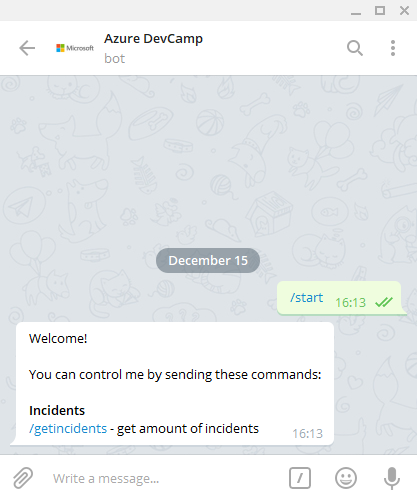
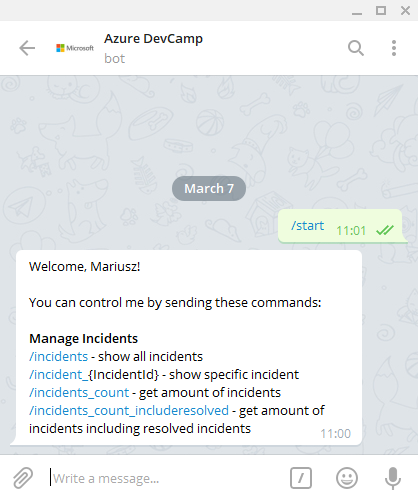
Replaced some images

diff --git a/HOL/dotnet/11-IoT/README.md b/HOL/dotnet/11-IoT/README.md
@@ -296,7 +296,7 @@ This example shows how to work with data requests, how to link the device to a d
 ---
 ## Exercise 3: Remote control using the Telegram Bot API<a name="ex3"></a>
 
-In this lesson you will create a Telegram bot.
+In this lesson you will create a Telegram bot which runs on our Arduino device. The bot allows you to control the device remotely.
 
 1. Install the Telegram app for your device. Got to https://telegram.org/apps and select the preferred download link. To create an account, you need a valid phone number.
 
@@ -345,7 +345,7 @@ In the following steps you will add the Universal Telegram Bot Library to your A
 	const char serverUrl[] = "incidentapi[YOUR_RG_NAME].azurewebsites.net"; // address for request, without http://
 
 	const char requestIncidentsUri[] = "/incidents";
-	const char requestIncidentUri[] = "/incidents/"; // /incidents/{IncidentId}
+	const char requestIncidentUri[] = "/incidents/"; // usage: /incidents/{IncidentId}
 	const char requestIncidentsCountUri[] = "/incidents/count";
 	const char requestIncidentsCountIncludeResolved[] = "/incidents/count/includeresolved";
 
@@ -355,16 +355,15 @@ In the following steps you will add the Universal Telegram Bot Library to your A
 	WiFiClientSecure clientSecure;
 	UniversalTelegramBot bot(BOT_TOKEN, clientSecure);
 
-	int interval = 1000; // mean time between scan messages
-	long lastMillis; // last time messages' scan has been done
-
 	const int maxMessageLength = 1300;  // maximum length of a message defined in UniversalTelegramBot.h
+	const int interval = 1000; // mean time between scan messages
+	long lastMillis; // last time messages' scan has been done
 
 	void setup() {
 	  Serial.begin(115200); // sets up serial data transmission for status information
-	  
+
 	  pinMode(LED_PIN, OUTPUT);
-	  
+
 	  connectWifi(ssid, password);
 	}
 
@@ -387,17 +386,17 @@ In the following steps you will add the Universal Telegram Bot Library to your A
 
 	void connectWifi(const char ssid[], const char password[]) {
 	  Serial.print("Connecting to Wi-Fi");
-	  
+
 	  WiFi.hostname("NodeMCU@DevCamp");
 	  WiFi.begin(ssid, password);
-	  
+
 	  uint8_t i = 0;
 	  while (WiFi.status() != WL_CONNECTED && i++ < 50) {
 		Serial.print(".");
 		delay(500);
 	  }
 	  Serial.println(".");
-	  
+
 	  if (WiFi.status() != WL_CONNECTED) {
 		Serial.println("Could not connect to Wi-Fi");
 	  } else {
@@ -410,13 +409,13 @@ In the following steps you will add the Universal Telegram Bot Library to your A
 
 	String getIncidents() {
 	  String incidents;
-	  
+
 	  WiFiClient client;
 	  if (client.connect(serverUrl, port)) {
 		Serial.print("Connected to ");
 		Serial.println(serverUrl);
 		Serial.println("Sending request");
-		
+
 		client.print("GET ");
 		client.print(requestIncidentsUri);
 		client.println(" HTTP/1.1");
@@ -438,18 +437,18 @@ In the following steps you will add the Universal Telegram Bot Library to your A
 			  String id = result.substring(result.indexOf("\"id\":\"") + 6, result.indexOf("\",\"Description\""));
 			  // removing the hyphens from the id so the command formatting in the Telegram client doesn't break
 			  id.replace("-", "");
-			  
+
 			  String description = result.substring(result.indexOf("\"Description\":\"") + 15, result.indexOf("\",\"Street\""));
 			  if (description == "") {
 				continue; // ignore incidents without description
-			  }          
+			  }
 			  description.replace("<br />", "\n");
 
-			  String incident = 
+			  String incident =
 				description + "\n"
 				"/incident_" + id + "\n\n";
 
-			  if (incident.length() + incidents.length() > maxMessageLength) { // truncate message to avoid memory leak
+			  if (incident.length() + incidents.length() > maxMessageLength) { // truncate message to avoid a memory leak
 				return incidents;
 			  } else {
 				incidents += incident;
@@ -477,12 +476,12 @@ In the following steps you will add the Universal Telegram Bot Library to your A
 		  Serial.println("From ID: " + bot.messages[i].from_id);
 		  Serial.println("From name: " + bot.messages[i].from_name);
 		  Serial.println("Text: " + bot.messages[i].text);
-	  
+
 		  String fromName = bot.messages[i].from_name;
 		  if (fromName == "") {
 			fromName = "Guest";
 		  }
-	  
+
 		  if (bot.messages[i].text == "/start") {
 			bot.sendMessage(bot.messages[i].from_id,
 			  "Welcome, " + fromName + "!\n\n"
@@ -495,28 +494,28 @@ In the following steps you will add the Universal Telegram Bot Library to your A
 			  "HTML");
 		  } else if (bot.messages[i].text == "/incidents") {
 			bot.sendChatAction(bot.messages[i].chat_id, "typing");
-			
+
 			String incidents = getIncidents();
-		  
+
 			// send a message with the current incident to bot subscriber
 			bot.sendMessage(bot.messages[i].from_id, incidents);
 		  } else if (bot.messages[i].text.startsWith("/incident_")) {
 			bot.sendChatAction(bot.messages[i].chat_id, "typing");
-			
+
 			String incidentId = bot.messages[i].text.substring(10);
 			if (incidentId == "") {
 			  bot.sendMessage(bot.messages[i].from_id, "There was no ID specified. Please use /incidents and select one of the listed commands.");
 			} else {
 			  // adding hyphens to the id to restore the GUID format
-			  incidentId = 
+			  incidentId =
 				incidentId.substring(0, 8) + "-" +
 				incidentId.substring(8, 12) + "-" +
 				incidentId.substring(12, 16) + "-" +
 				incidentId.substring(16, 20) + "-" +
 				incidentId.substring(20);
-			  
+
 			  String result = sendRequest(requestIncidentUri + incidentId);
-			
+
 			  // parsing the JSON string
 			  String id = result.substring(result.indexOf("\"id\":\"") + 6, result.indexOf("\",\"Description\""));
 			  if (id != "" && id == incidentId) { // if an incident with the specified ID exists the IDs will match
@@ -528,16 +527,16 @@ In the following steps you will add the Universal Telegram Bot Library to your A
 				String firstName = result.substring(result.indexOf("\"FirstName\":\"") + 13, result.indexOf("\",\"LastName\""));
 				String lastName = result.substring(result.indexOf("\"LastName\":\"") + 12, result.indexOf("\",\"PhoneNumber\""));
 				String phoneNumber = result.substring(result.indexOf("\"PhoneNumber\":\"") + 15, result.indexOf("\",\"OutageType\""));
-			
-				bot.sendMessage(bot.messages[i].from_id,
-				  "<strong>" + description + "</strong>\n"
-				  "Street: " + street + "\n"
-				  "City: " + city + "\n"
-				  "State: " + state + "\n"
-				  "ZIP code: " + zipCode + "\n"
-				  "Name: " + firstName + " " + lastName + "\n"
-				  "Phone: " + phoneNumber,
-				  "HTML");
+
+			  bot.sendMessage(bot.messages[i].from_id,
+				"<strong>" + description + "</strong>\n"
+				"Street: " + street + "\n"
+				"City: " + city + "\n"
+				"State: " + state + "\n"
+				"ZIP code: " + zipCode + "\n"
+				"Name: " + firstName + " " + lastName + "\n"
+				"Phone: " + phoneNumber,
+				"HTML");
 			  } else {
 				bot.sendMessage(bot.messages[i].from_id, "There is no incident with the specified ID.");
 			  }
@@ -548,11 +547,11 @@ In the following steps you will add the Universal Telegram Bot Library to your A
 			// retrieve the amount of incidents
 			String result = sendRequest(requestIncidentsCountUri);
 			int incidentsCount = result.toInt();
-		  
+
 			// send a message with the amount of incidents to all bot subscribers
 			bot.sendMessage(bot.messages[i].from_id,
 			  "There are currently <strong>" + String(incidentsCount) + " incidents</strong> available.", "HTML");
-		  
+
 			// keep the led blinking for the amount of incidents
 			for (int i = 0; i < incidentsCount; i++) {
 			  delay(250);
@@ -565,11 +564,11 @@ In the following steps you will add the Universal Telegram Bot Library to your A
 
 			String result = sendRequest(requestIncidentsCountIncludeResolved);
 			int incidentsCountIncludeResolved = result.toInt();
-			
+
 			// send a message with the amount of incidents
 			bot.sendMessage(bot.messages[i].from_id,
 			  "There are currently <strong>" + String(incidentsCountIncludeResolved) + " incidents including resolved incidents</strong> available.", "HTML");
-		  
+
 			// keep the led blinking for the amount of incidents
 			for (int i = 0; i < incidentsCountIncludeResolved; i++) {
 			  delay(250);
@@ -587,7 +586,7 @@ In the following steps you will add the Universal Telegram Bot Library to your A
 		Serial.print("Connected to ");
 		Serial.println(serverUrl);
 		Serial.println("Sending request");
-		
+
 		client.print("GET ");
 		client.print(uri);
 		client.println(" HTTP/1.1");
@@ -603,7 +602,7 @@ In the following steps you will add the Universal Telegram Bot Library to your A
 		while (client.connected()) {
 		  // ...until the response is available
 		  while (client.available()) {
-		  // looking for search string in response data
+			// looking for search string in response data
 			if (client.findUntil("\r\n\r\n", "\0")) {
 			  return client.readStringUntil('\n');
 			}
@@ -620,7 +619,7 @@ In the following steps you will add the Universal Telegram Bot Library to your A
 	  }
 	  return "";
 	}
-
+	```
 
 1. Don't forget to replace the SSID and the password with proper values and the address in the following line with the address to your Azure web app:
 
@@ -646,9 +645,9 @@ In the following steps you will add the Universal Telegram Bot Library to your A
 
     ![image](./media/telegram-devcampbot-commands.png)
 
-1. Enter or select `/incidents` from the list of commands.
+1. Enter or select `/incidents_count` from the list of commands.
 
-    ![image](./media/telegram-devcampbot-getincidents.png)
+    ![image](./media/telegram-devcampbot-incidents_count.png)
 
 1. Now we will add the list of commands to the Telegram bot. Open BotFather and enter `/start` to view all available commands. Enter or select `/setcommands` from the **Edit Bots** section in the menu.
 
@@ -668,7 +667,7 @@ In the following steps you will add the Universal Telegram Bot Library to your A
 	
 	![image](./media/telegram-botfather-setcommands-sendlist.png)
 	
-1. Delete the old conversation with your previously created bot and start a new one. When you enter `/` the list of commands will appear.
+1. Delete the old conversation with your previously created bot and start a new one. When you enter `/` the new list of commands will appear.
 
 	![image](./media/telegram-devcampbot-commandlist.png)
 
@@ -676,12 +675,9 @@ In the following steps you will add the Universal Telegram Bot Library to your A
 ## Summary
 
 In this hands-on lab, you learned how to:
-* Set up the developing environment to support the programming of Arduino chips.
+* Set up the developing environment to support the programming of Arduino-compatible boards.
 * Create your own IoT software from scratch.
-
-After completing this module, you can continue on to the Stretch Goal.
-
-### View Stretch Goal instructions for [.NET](../10-stretch-goal/)
+* Enable remote control of your device using the Telegram Bot API.
 
 ---
 ## Additional Links
@@ -689,6 +685,7 @@ After completing this module, you can continue on to the Stretch Goal.
 * [Getting Started with Arduino and Genuino products](https://www.arduino.cc/en/Guide/HomePage)
 * [Arduino Language Reference](https://www.arduino.cc/en/Reference/HomePage)
 * [Arduino Forum](https://forum.arduino.cc)
+* [Telegram Bot API] (https://core.telegram.org/bots/api)
 
 ---
 Copyright 2017 Microsoft Corporation. All rights reserved. Except where otherwise noted, these materials are licensed under the terms of the MIT License. You may use them according to the license as is most appropriate for your project. The terms of this license can be found at https://opensource.org/licenses/MIT.
